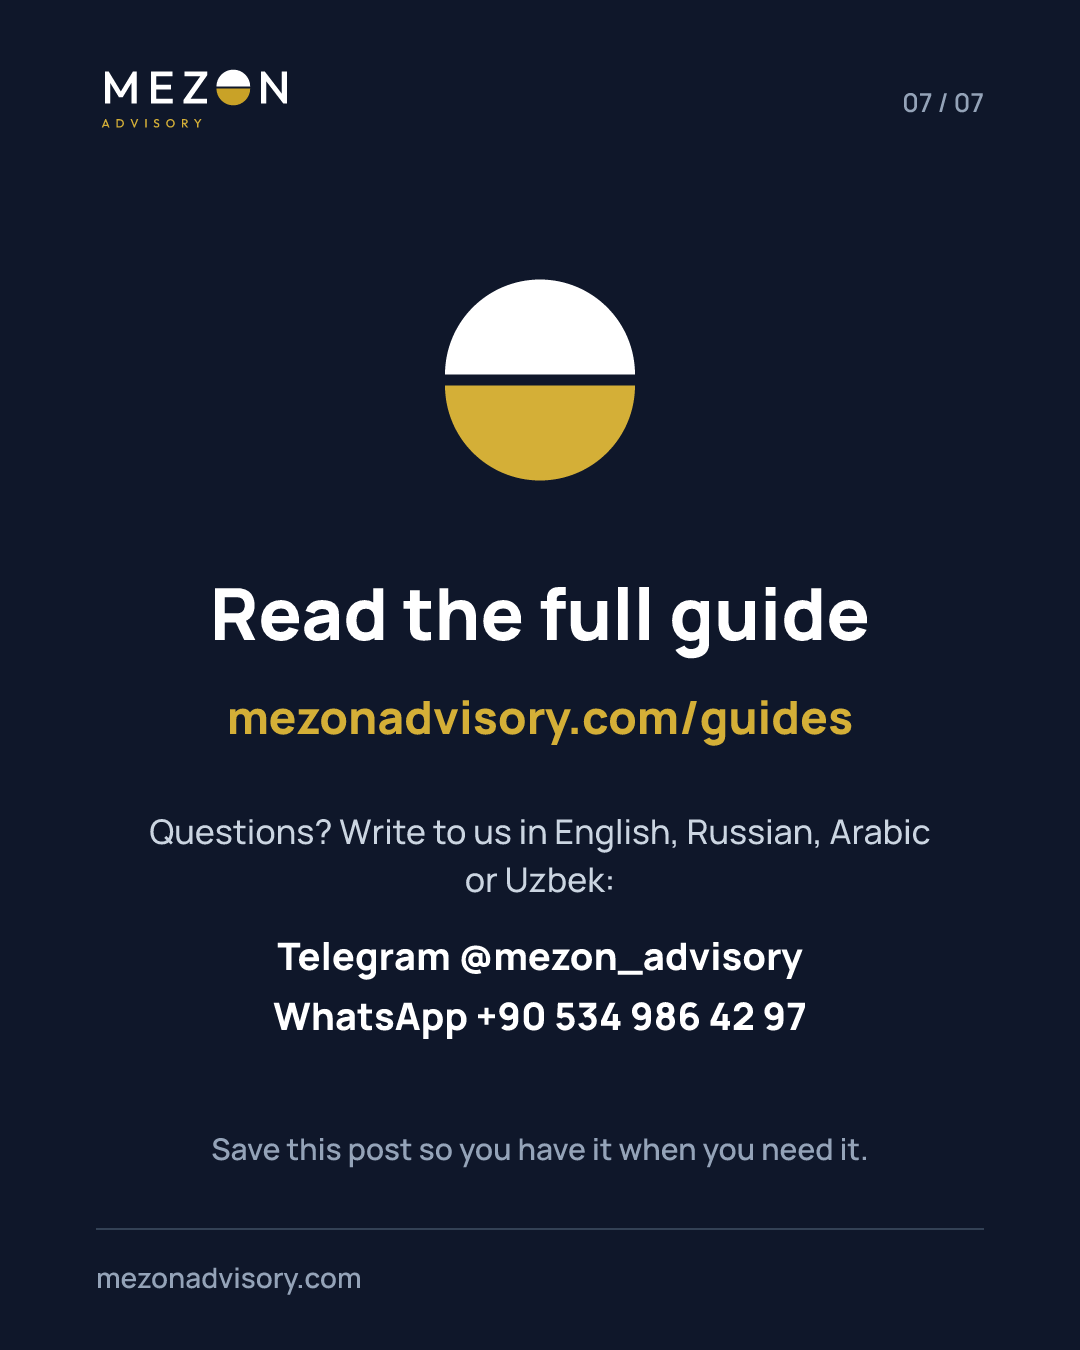
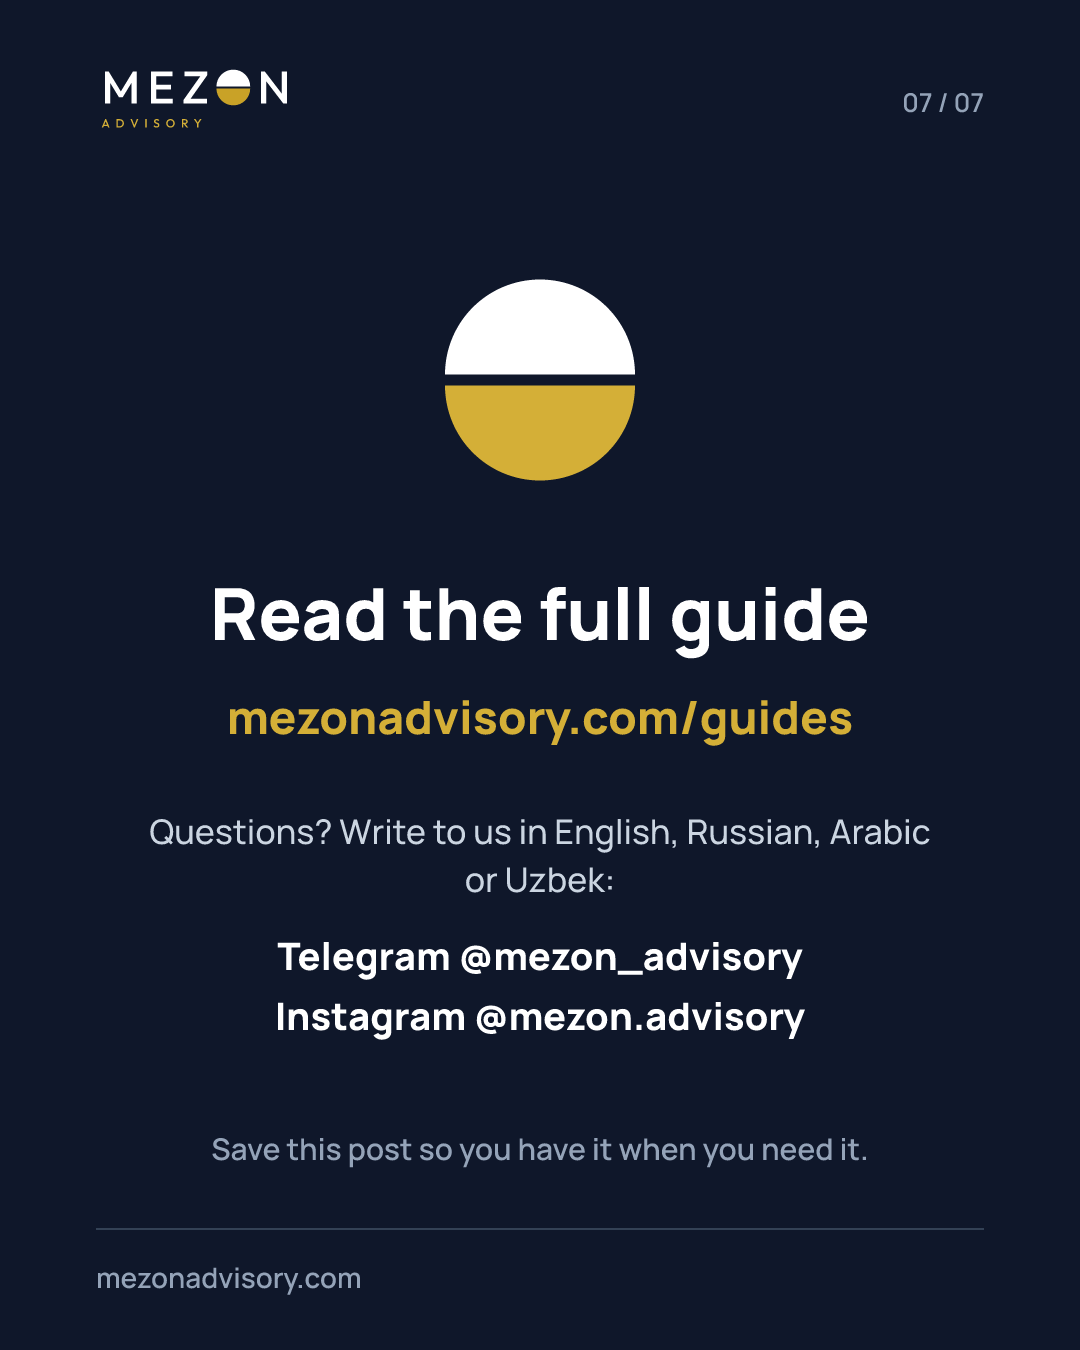
Carousels: no phone number on the last slide

Changed region(s): [[0.2444, 0.7156, 0.7333, 0.7778]]

diff --git a/brand/social/make_carousels.py b/brand/social/make_carousels.py
@@ -285,7 +285,7 @@ def cta_slide(F, ui):
         out.append(text(W / 2, y, line, "MzReg", 34, SOFT, "middle"))
         y += 48
     y += 30
-    for label in ("Telegram  @mezon_advisory", "WhatsApp  +90 534 986 42 97"):
+    for label in ("Telegram  @mezon_advisory", "Instagram  @mezon.advisory"):
         out.append(text(W / 2, y, label, "MzBold", 38, WHITE, "middle"))
         y += 60
     out.append(text(W / 2, 1160, ui["save"], "MzSemi", 30, MUTED, "middle"))
